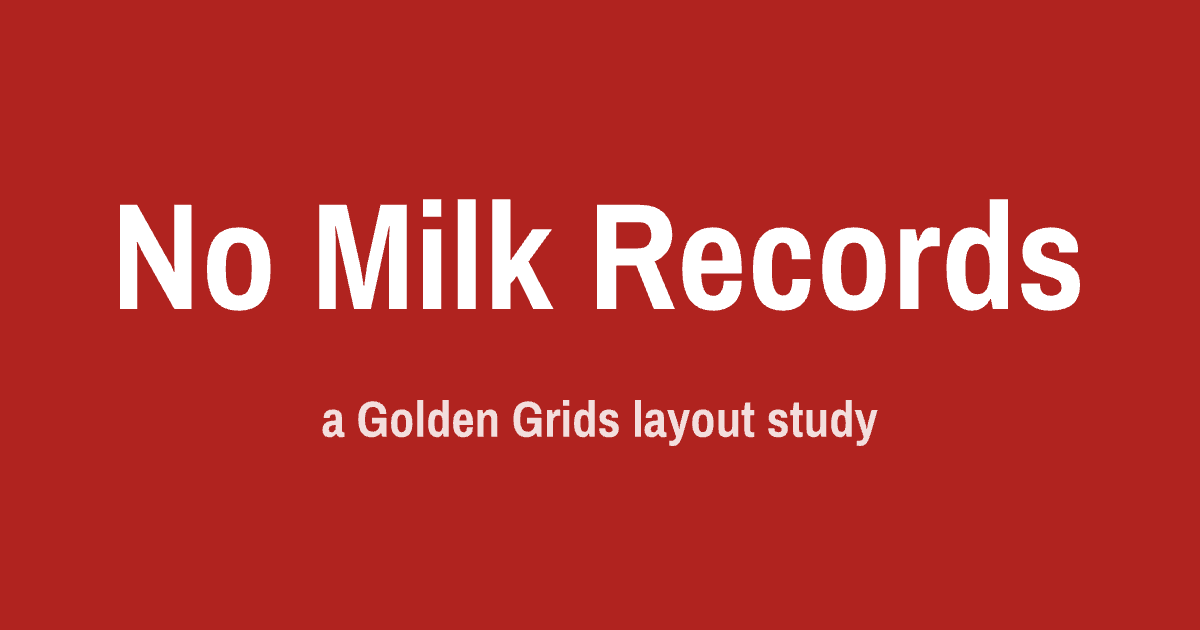
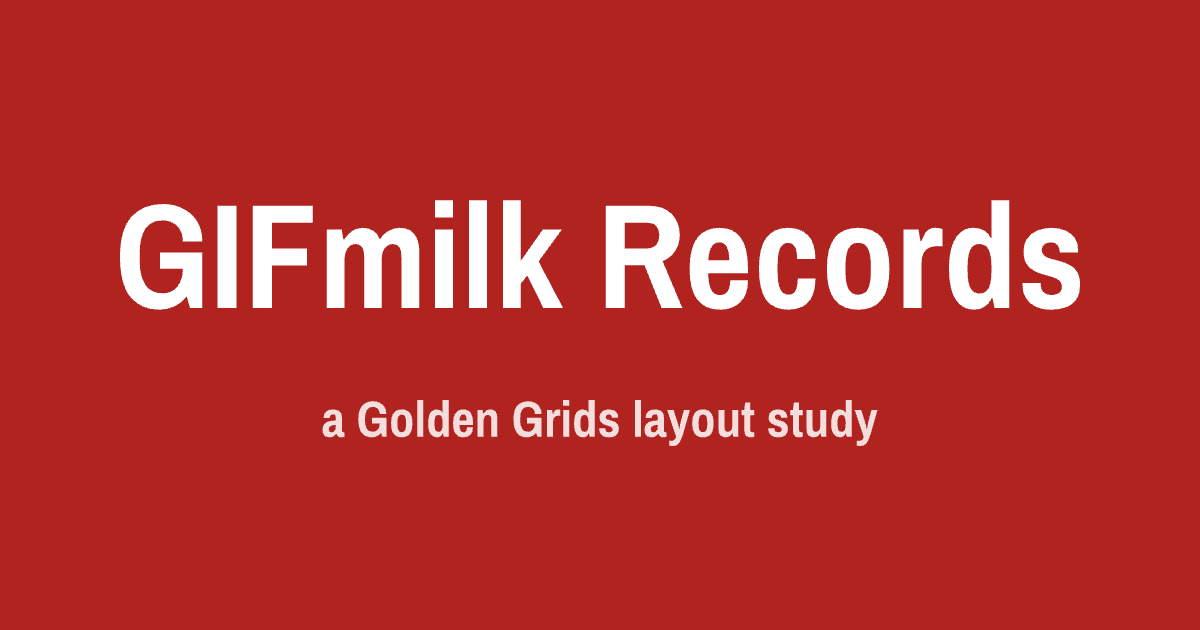
feat: name the label GIFmilk Records on the page
The study's parody name for No Milk Records. The header, titles, share card and the study's own strings use it, and src/data.ts renames the crawl as it is read: 'No Milk' in any case, and NMR as the label's short name, become GIFmilk. Catalogue numbers, addresses, file names and pictures are left alone, and site.json stays the crawl as extracted. The notice and the disclosure say the name is a parody and what the label was called.

Changed region(s): [[0.0925, 0.3016, 0.4625, 0.5127], [0.4933, 0.3016, 0.8633, 0.5127]]

diff --git a/src/data.ts b/src/data.ts
@@ -16,9 +16,33 @@ export interface Show { date: string; venue: string; bands: string }
 export interface Item { slug: string; code: string; kind: string; image: string | null; imageAlt: string; band: string; title: string; price: string | null; description: string[]; sizes: string[] }
 export interface Song { band: string; file: string; label: string; song: string }
 
-const data = site as unknown as {
+/**
+ * The label's name, renamed as the crawl is read. The study's parody name is
+ * GIFmilk Records, so wherever the site's own text says "No Milk" (in any
+ * case) or uses NMR as the label's short name, the page says GIFmilk. What is
+ * left alone: catalogue numbers (NMR013), web addresses, file names and the
+ * pictures, which are the label's as they were. `site.json` itself is the
+ * crawl, unchanged; delete the call to `renamed` below to read it as written.
+ */
+export const BRAND = "GIFmilk Records";
+const say = (text: string) => text.replace(/no milk/gi, "GIFmilk").replace(/\bNMR\b(?![- ]?\d)/g, "GIFmilk");
+function rename(value: string): string {
+  // A path or an address: no spaces, and a slash or a dot in it.
+  if (!/\s/.test(value) && /[/.]/.test(value)) return value;
+  // HTML: the text between tags, and alt text; never an address inside a tag.
+  if (value.includes("<")) return value.replace(/(^|>)([^<]+)/g, (_, open, text) => open + say(text)).replace(/alt="([^"]*)"/g, (_, alt) => `alt="${say(alt)}"`);
+  return say(value);
+}
+function renamed<T>(value: T): T {
+  if (typeof value === "string") return rename(value) as T;
+  if (Array.isArray(value)) return value.map(renamed) as T;
+  if (value && typeof value === "object") return Object.fromEntries(Object.entries(value).map(([k, v]) => [k, renamed(v)])) as T;
+  return value;
+}
+
+const data = renamed(site as unknown as {
   pages: Record<string, PageData>; news: Post[]; bands: Record<string, Band>; releases: Release[]; tours: Show[]; store: Item[]; audio: Song[];
-};
+});
 
 export const pages = data.pages;
 export const news = data.news;

diff --git a/src/lib/modules.tsx b/src/lib/modules.tsx
@@ -178,9 +178,9 @@ export function NewsletterBand() {
   // the type takes the hero and the form has 453px in the square beside it.
   const typeHero = viewport === "desktop";
   return (
-    <Band id="newsletter" title="NMR newsletter" lesson="Name and email, for news on shows and releases; the original went to a mailing list run from the label's office. Nothing is sent from here." note={`from=1 to=${single ? 1 : 3} · placement="bottom" · clockwise=false · type fills the hero`}>
+    <Band id="newsletter" title="GIFmilk newsletter" lesson="Name and email, for news on shows and releases; the original went to a mailing list run from the label's office. Nothing is sent from here." note={`from=1 to=${single ? 1 : 3} · placement="bottom" · clockwise=false · type fills the hero`}>
       <GoldenGrid from={1} to={single ? 1 : 3} placement="bottom" clockwise={false}>
-        {!single && typeHero && <GoldenBox><Fact label="No Milk Records" tone="ink">{"Hype,\ngossip,\nshows"}</Fact></GoldenBox>}
+        {!single && typeHero && <GoldenBox><Fact label="GIFmilk Records" tone="ink">{"Hype,\ngossip,\nshows"}</Fact></GoldenBox>}
         <GoldenBox>
           <div className="box">
             <p className="box__label">Sign up</p>
@@ -192,7 +192,7 @@ export function NewsletterBand() {
             </form>
           </div>
         </GoldenBox>
-        {!single && !typeHero && <GoldenBox><Fact label="No Milk Records" tone="ink">{"Hype,\ngossip,\nshows"}</Fact></GoldenBox>}
+        {!single && !typeHero && <GoldenBox><Fact label="GIFmilk Records" tone="ink">{"Hype,\ngossip,\nshows"}</Fact></GoldenBox>}
         <GoldenBox>
           <Fact label="Since 2005" fitClass="fit--light">{"Jackson,\nNew Jersey"}</Fact>
         </GoldenBox>

diff --git a/src/pages/band.tsx b/src/pages/band.tsx
@@ -61,7 +61,7 @@ function Releases() {
   const to = Math.max(rs.length, 3);
   const fill = Array.from({ length: to - rs.length }, (_, i) => rs[i % rs.length]);
   return (
-    <Band id="releases" title={`${band.name} on No Milk`} lesson={`${rs.length === 1 ? "One record" : `${rs.length} records`} on the label: ${rs.map((r) => `${r.title} (${r.catalog})`).join("; ")}. Open a cover for the facts.`} note={`from=1 to=${to} · placement="bottom" · clockwise=true · catalogue numbers fill the rest`}>
+    <Band id="releases" title={`${band.name} on GIFmilk`} lesson={`${rs.length === 1 ? "One record" : `${rs.length} records`} on the label: ${rs.map((r) => `${r.title} (${r.catalog})`).join("; ")}. Open a cover for the facts.`} note={`from=1 to=${to} · placement="bottom" · clockwise=true · catalogue numbers fill the rest`}>
       <GoldenGrid from={1} to={to} placement="bottom">
         {rs.map((r) => <GoldenBox key={r.catalog} {...x.boxProps(r.catalog)}><ReleaseCard r={r} x={x} /></GoldenBox>)}
         {fill.map((r, i) => <GoldenBox key={`f${i}`}><Fact label={i === 0 ? "Catalogue" : r.facts[0] ?? "Release"} fitClass="fit--num" tone={i % 2 ? undefined : "ink"}>{i === 0 ? r.catalog : (r.facts.find((f) => /running time/i.test(f)) ?? r.facts[0] ?? r.catalog).replace(/^Running Time:\s*/i, "").replace(/ minutes? /, "′ ").replace(/ seconds?/, "″")}</Fact></GoldenBox>)}

diff --git a/src/lib/Page.tsx b/src/lib/Page.tsx
@@ -25,8 +25,8 @@ export function Page({ current, title, standfirst, children }: { current: string
       <Tools />
       <header className="masthead">
         <div className="masthead__row">
-          <a className="masthead__logo" href="./index.html"><img src={asset("nmr/site/images/nmr_logo.gif")} alt="No Milk Records" width="54" height="40" /></a>
-          <p className="masthead__address"><strong>No Milk Records</strong><br />P.O. Box 1229 Jackson, NJ<br />08527 United States</p>
+          <a className="masthead__logo" href="./index.html"><img src={asset("nmr/site/images/nmr_logo.gif")} alt="GIFmilk Records" width="54" height="40" /></a>
+          <p className="masthead__address"><strong>GIFmilk Records</strong><br />P.O. Box 1229 Jackson, NJ<br />08527 United States</p>
         </div>
         <nav className="nav" aria-label="Site">
           {NAV.map((g) => {

diff --git a/src/pages/info.tsx b/src/pages/info.tsx
@@ -50,7 +50,7 @@ mount(
   <Page current="info.html" title="information" standfirst="How to reach the label, what it was asked most, who it worked with, and how to help.">
     <Contact />
     <Faq />
-    <Plain id="jobs" title="Jobs & internships" lesson="Work for No Milk Records: the openings as posted." />
+    <Plain id="jobs" title="Jobs & internships" lesson="Work for GIFmilk Records: the openings as posted." />
     <Plain id="street" title="Street team" lesson="Sign up, promote, flyer, sticker." />
     <Plain id="links" title="Links" lesson="The roster's own sites, the community, labels and distribution, composers, and the rest." />
     <NewsletterBand />

diff --git a/src/pages/news.tsx b/src/pages/news.tsx
@@ -56,7 +56,7 @@ function Archive() {
 }
 
 mount(
-  <Page current="index.html" title="news" standfirst="Hype, gossip, shows. No Milk Records, Jackson, New Jersey.">
+  <Page current="index.html" title="news" standfirst="Hype, gossip, shows. GIFmilk Records, Jackson, New Jersey.">
     <CurrentNews />
     <FeaturedArtistsBand />
     <FeaturedItemsBand />

diff --git a/CLAUDE.md b/CLAUDE.md
@@ -197,19 +197,26 @@ Two geometry rules, verified against source, that every band relies on:
 
 - **The study's brand is a parody name**: `GIF` in capitals, then the tail of
   the reference's name in lower case (GIFbnb, GIFspn, GIFflix, GIFrs, GIFx,
-  GIFbase, GIFmutual, GIFn'now, GIFbell, GIFipedia). Do not use GIFcommit as
+  GIFbase, GIFmutual, GIFn'now, GIFbell, GIFipedia, GIFify, GIFmilk Records).
+  Do not use GIFcommit as
   a service's name; it is only the npm scope of the library.
 - **A play on the reference's premium tier or named service carries the
   parody name and keeps the alteration**: GIFspn+, GIFbase One, GIFx Premium.
 - Write the name exactly so; never change its case in CSS. The notice in
   `src/study.json` says it is a parody name, and the disclosure lists it
   under what is invented. (Greg, 2026-10-09.)
-- This study has no invented service and keeps its own names.
 - **The header is the reference's header.** Take its structure from the
   page being rebuilt: the parody name where the logo is, its nav items, its
   search, its tabs. Do not write "layout study", a study number or the
   reference's name there; the notice above and the disclosure below say that
   on every page. (Greg, 2026-10-09.)
+- **Here the parody name is GIFmilk Records** (Greg, 2026-10-09), for his own
+  label, No Milk Records. `src/data.ts` renames the crawl as it is read:
+  "No Milk" in any case, and NMR as the label's short name, become GIFmilk.
+  Catalogue numbers (NMR013), addresses, file names and images are left alone,
+  and `src/data/site.json` stays the crawl as extracted. The study's own
+  strings (header, band titles, `study.json`) are written with the new name.
+  The reference's name in `study.json` (`name`) stays No Milk Records.
 
 ## API facts, verified against 5.0.0 source
 

diff --git a/README.md b/README.md
@@ -1,4 +1,4 @@
-# Layout study 05 — No Milk Records
+# Layout study 05 — No Milk Records, as GIFmilk Records
 
 **Live:** https://gregoryedgerton.github.io/golden-grids-study-05-nmr/
 
@@ -9,7 +9,11 @@ site, 104 pages of news, bands, releases, reviews, tours, store, audio,
 video, icons and wallpapers, is rebuilt as seventeen pages of golden grids.
 The copy, photographs, artwork, recordings and video are the label's own and
 are used with its owner's permission; this is the one study in the series
-built from its reference's actual content. Built with
+built from its reference's actual content. On the page the label goes by a
+parody name, GIFmilk Records: wherever the site's own text says No Milk, or
+NMR as the label's short name, the page says GIFmilk (`src/data.ts` renames it
+as the crawl is read; the crawl itself is unchanged). Catalogue numbers, web
+addresses, file names and pictures, including the NMR logo, are as they were. Built with
 [Golden Grids](https://github.com/gregoryedgerton/golden-grids) from the
 [study template](https://github.com/gregoryedgerton/golden-grids-study-template).
 

diff --git a/docs/program/PROGRAM.md b/docs/program/PROGRAM.md
@@ -135,13 +135,13 @@ named for the reference: `GIF` in capitals, then the tail of the reference's
 name in lower case. GIFbnb for Airbnb, GIFify for Spotify, GIFspn for ESPN, GIFflix for Netflix,
 GIFrs for the IRS, GIFx for X, GIFbase for Coinbase, GIFmutual for
 Northwestern Mutual, GIFn'now for Hot 'n Now, GIFbell for Taco Bell,
-GIFipedia for Wikipedia. Where the reference has a premium tier or a named
+GIFipedia for Wikipedia, and GIFmilk Records for the author's own label, No
+Milk Records. Where the reference has a premium tier or a named
 service, the study's play on it carries the parody name and keeps the
 reference's alteration: GIFspn+, GIFbase One, GIFx Premium. The name is
 written exactly so and never changed in case by a stylesheet; the notice on
 every page says it is a parody name, and the disclosure lists it among what
-is invented. A study of the author's own work (No Milk Records) keeps its
-own name.
+is invented.
 
 The name is also the page's title (`GIFbnb - a Golden Grids layout study`,
 with the page's label in front when a study has several pages) and its icon is
